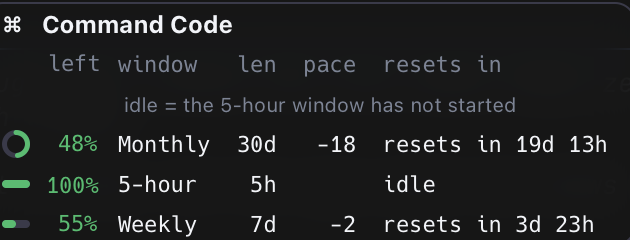
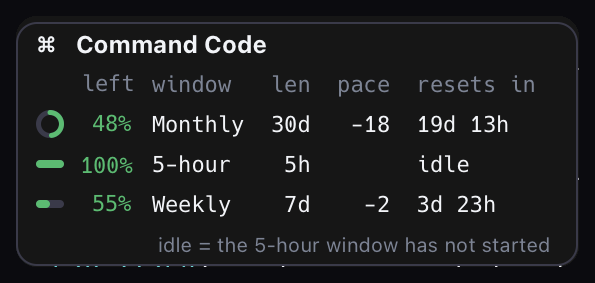
fix(sketchybar): ring strip order, popup order, fresh screenshots
SketchyBar appends new items to the end of the bar, and the gap and edge
spacers were added after the unit items, so every gap landed after the last
unit. Spacers are now re-created on each redeclare and the strip members are
reordered. The bracket spans strip items only, not the popup rows. Popup slots
are declared in display order: title, alerts, header, window rows, note.

README and docs/sketchybar.md get retaken strip and popup screenshots (opaque
popup background, no terminal text behind it) at their real widths, plus a
ring-mode feature line near the top of the README.

diff --git a/README.md b/README.md
@@ -44,6 +44,7 @@ bin/showy-quota-fetch     ←  shared cache envelope + flock + last-known-good
 - **Pacing & thresholds:** Renders proportional pacing markers where the surface supports them and color-codes usage (good/warn/bad) based on configurable remaining-quota and time thresholds.
 - **Themeable:** Ships with Catppuccin, Nord, Dracula, Tokyo Night, and others.
 - **Low overhead:** Host bars share one cached fetcher; Zellij can use a single WASM artifact.
+- **Ring mode (SketchyBar, optional):** One ring per model family with the provider logo inside, stacked bars for shorter windows, and a hover popup per provider. Rows stay the default; ring mode needs the [SketchyBar fork](https://github.com/enieuwy/SketchyBar) (see [SketchyBar wiring](#sketchybar-wiring)).
 
 ## Quickstart
 
@@ -140,7 +141,15 @@ mode needs the SketchyBar fork
 and the badges ([upstream PR #816](https://github.com/FelixKratz/SketchyBar/pull/816)),
 neither merged upstream yet; on stock SketchyBar the plugin falls back to rows.
 
-<p><img src="docs/images/ring-strip.png" alt="showy-quota SketchyBar ring strip: one ring per provider with countdown labels" width="645"></p>
+<p align="center">
+  <img src="docs/images/ring-strip.png" alt="showy-quota SketchyBar ring strip: one ring per model family with countdown labels, pace ticks and bars" width="536">
+</p>
+
+<p align="center">
+  <img src="docs/images/ring-popup.png" alt="showy-quota ring hover popup for Command Code: a mini gauge, % left, window, length, pace and reset per window" width="298">
+</p>
+
+<p align="center"><sub>Ring mode: the strip, and the popup when you point at a provider</sub></p>
 
 ### Zellij wiring
 

diff --git a/docs/sketchybar.md b/docs/sketchybar.md
@@ -115,9 +115,9 @@ neither merged upstream yet. On stock SketchyBar the plugin logs once and
 falls back to the rows body. Notch placement stays a rows-body feature; in
 ring mode the pill stays left.
 
-<p><img src="images/ring-strip.png" alt="showy-quota SketchyBar ring strip: one ring per provider with countdown labels" width="645"></p>
+<p><img src="images/ring-strip.png" alt="showy-quota SketchyBar ring strip: one ring per model family with countdown labels, pace ticks and bars" width="536"></p>
 
-<p><img src="images/ring-popup.png" alt="showy-quota ring hover popup for Command Code with per-window gauges" width="670"></p>
+<p><img src="images/ring-popup.png" alt="showy-quota ring hover popup for Command Code with per-window gauges" width="298"></p>
 
 ## Pill geometry
 
